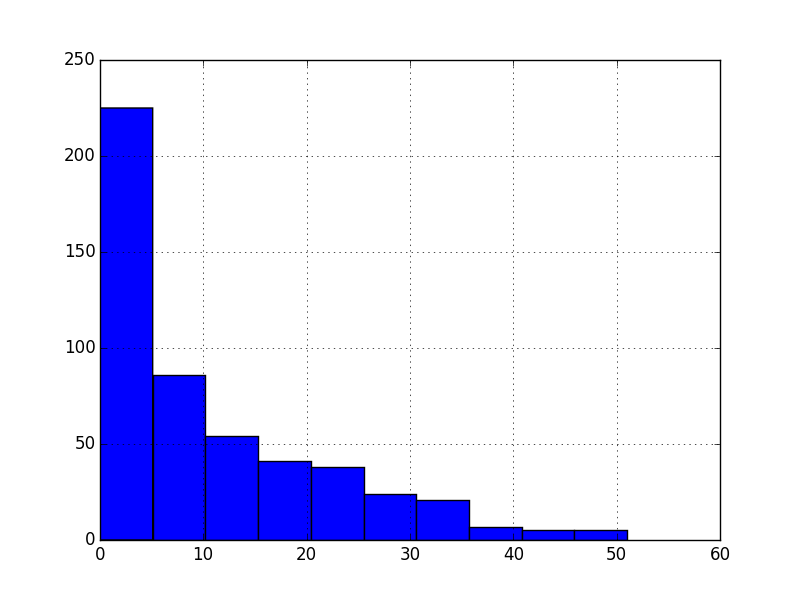
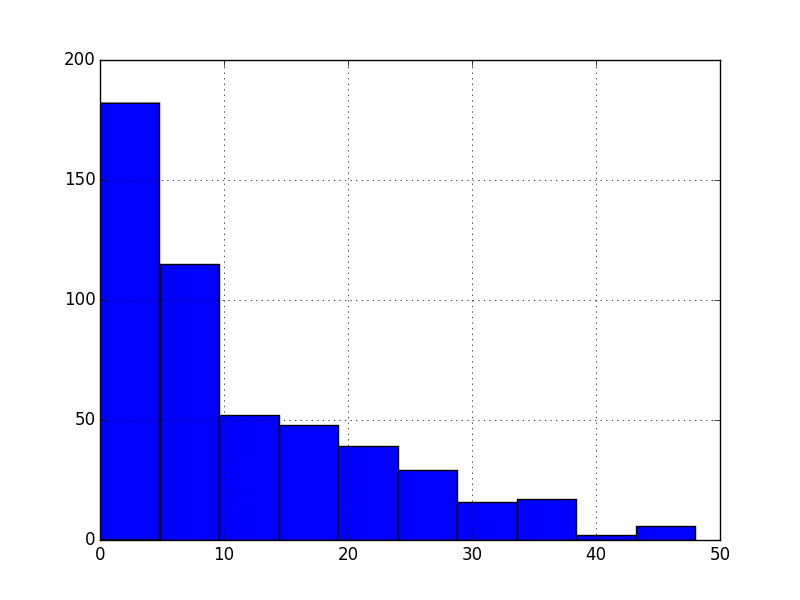
Branching off the master, and then adding analysis to the hourly changes of the citibike

diff --git a/citibike.py b/citibike.py
@@ -8,6 +8,7 @@ import time
 from pandas.io.json import json_normalize
 from dateutil.parser import parse # parse string into Python datetime object
 import itertools
+import datetime
 import sys
 
 
@@ -172,8 +173,25 @@ def insert_update_available_bike_table(exec_time, station_bean_list):
             cur.execute('UPDATE available_bikes SET _' + str(key) + '=' + str(value) + ' WHERE execution_time = ' + process_exec_time(exec_time) + ';')
 
             
+# Analysis
+def get_available_bikes_from_db():
+    # Connect to the database
+    con = connect_db()
+    cur = con.cursor()
+    
+    with con:
+        df = pd.read_sql_query('SELECT * FROM available_bikes ORDER BY execution_time', con, index_col = 'execution_time')
+        
+    return df
+# Find the key with the greatest value
+def keywithmaxval(d):
+    return max(d, key=lambda k: d[k])
+    
 if __name__ == '__main__':
-            
+    
+    '''
+        DATA INGESTION AND ACQUISITION
+    '''
     # Create/Update database for one hour time window with 1 minute intervals.
     for idx in xrange(1, 61):
 
@@ -208,3 +226,41 @@ if __name__ == '__main__':
         
         # Spinning cursor to wait for 60 seconds.
         spinning_cursor(60)
+        
+    '''
+        ANALYSIS PART
+    '''
+    df = get_available_bikes_from_db()
+    
+    hour_change = collections.defaultdict(int)
+    for col in df.columns:
+        station_vals = df[col].tolist()
+        station_id = col[1:] #trim the "_"
+        station_change = 0
+        for k,v in enumerate(station_vals):
+            if k < len(station_vals) - 1:
+                station_change += abs(station_vals[k] - station_vals[k+1])
+        hour_change[int(station_id)] = station_change #convert the station id back to integer
+        
+    # assign the max key to max_station
+    max_station = keywithmaxval(hour_change)
+
+    
+    # Connect to the database
+    con = connect_db()
+    cur = con.cursor()
+    
+    #query sqlite for reference information
+    cur.execute("SELECT id, stationname, latitude, longitude FROM citibike_reference WHERE id = ?", (max_station,))
+    data = cur.fetchone()
+    print("The most active station is station id %s at %s latitude: %s longitude: %s " % data)
+    print("With %d bicycles coming and going in the hour between %s and %s" % (
+    hour_change[max_station],
+    datetime.datetime.fromtimestamp(int(df.index[0])).strftime('%Y-%m-%dT%H:%M:%S'),
+    datetime.datetime.fromtimestamp(int(df.index[-1])).strftime('%Y-%m-%dT%H:%M:%S'),
+))
+    
+    # Plot Data
+    plt.bar(hour_change.keys(), hour_change.values())
+    plt.savefig('hour_change.png')
+    plt.clf()
